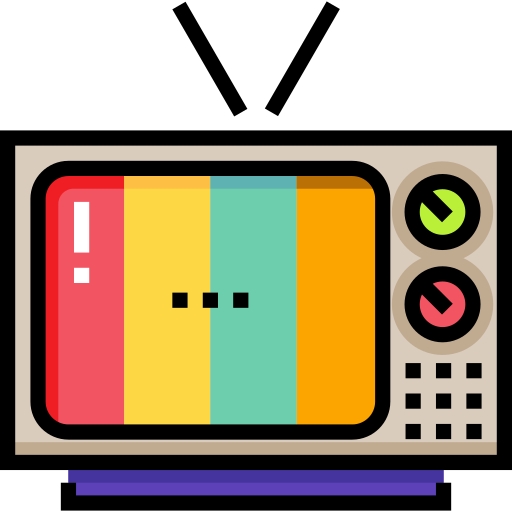
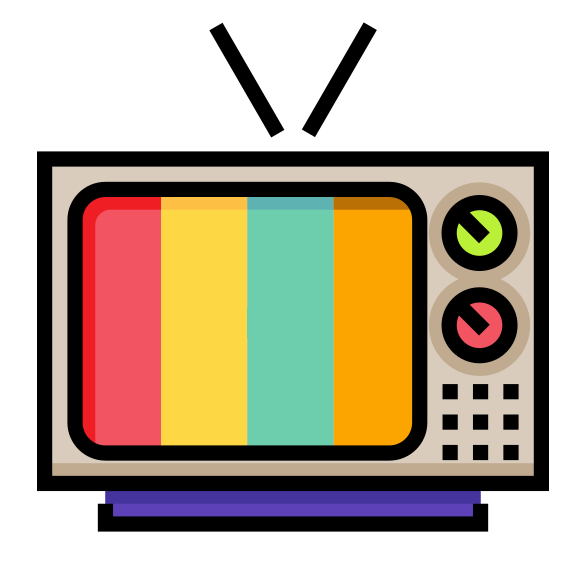
Update UI components and loading spinner visuals
Added new image assets and updated references for logos. Improved SpinnerLoadingVideo with a bouncing ball effect and new image. Enhanced AccordionGroupButtons and sidebar button styles for better alignment. HeaderBlock logo is now a link. ImageLargeLogo links to a random category. NowPlaying page sets background color on video load/unload. Updated CSS for new spinner and sidebar visuals.

diff --git a/src/style.css b/src/style.css
@@ -218,15 +218,23 @@ body {
 }
 
 .sidebar-accordion-button {
-    padding: 8px 12px !important;
+    display: flex !important;
+    align-items: center;
+    justify-content: center;
+    position: relative;
+    padding: 7px 12px !important;
+    padding-right: 3rem !important; /* Reserve space for chevron */
     font-size: 0.875rem;
     background-color: transparent;
-    border: 1px solid #212529 !important; /* Black border to match btn-outline-dark */
-    color: #212529 !important; /* Always black text */
+    border: 1px solid #212529 !important; 
+    color: #212529 !important;
     font-weight: normal;
-    display: block !important; /* Use block instead of flex */
-    text-align: center !important; /* Center the text */
-    position: relative; /* For absolute positioning of chevron */
+    box-sizing: border-box;
+    text-align: center !important;
+}
+.accordion-title {
+    flex: 1;
+    text-align: center;
 }
 
 /* Position the chevron arrow */
@@ -282,7 +290,7 @@ body {
     left: 0;
     right: 0;
     bottom: 0;
-    background-color: #000;
+    background-color: #FFF;
     display: flex;
     align-items: center;
     justify-content: center;
@@ -293,14 +301,50 @@ body {
 }
 
 /* SpinnerLoadingVideo */
-#vidspin {
-    background-color: white;
-    border-radius: 24px;
-    padding: 10px;
-    width: 90%;
-    height: 80vh;
+@keyframes float {
+    0% {
+        box-shadow: 0 5px 15px 0px rgba(0,0,0,0.6);
+        transform: translatey(0px);
+    }
+    50% {
+        box-shadow: 0 25px 15px 0px rgba(0,0,0,0.2);
+        transform: translatey(-20px);
+    }
+    100% {
+        box-shadow: 0 5px 15px 0px rgba(0,0,0,0.6);
+        transform: translatey(0px);
+    }
 }
 
+.container {
+    width: 100%;
+    height: 100%;
+    display: flex;
+    flex-direction: column;
+    justify-content: center;
+    align-items: center;
+}
+
+.floatingball {
+    width: 500px;
+    height: 500px;
+    box-sizing: border-box;
+    border: 5px black solid;
+    border-radius: 50%;
+    overflow: hidden;
+    box-shadow: 0 5px 15px 0px rgba(0,0,0,0.6);
+    transform: translatey(0px);
+    animation: float 2s ease-in-out infinite;
+}
+
+.floatingball img {
+  width: 80%;
+  height: auto;
+  display: block;
+  margin: 0 auto;
+}
+
+/* iframe embedded videos are loaded into */
 #vidviewer {
     height: 100%;
     width: 95%;

diff --git a/src/pages/NowPlaying/index.jsx b/src/pages/NowPlaying/index.jsx
@@ -23,6 +23,14 @@ export function NowPlaying() {
     };
   }, []);
 
+  useEffect(() => {
+    return () => {
+      /** @type {HTMLElement|null} */
+      const wrapper = document.querySelector('.vidViewWrapper');
+      if (wrapper) wrapper.style.backgroundColor = '#FFF';
+    };
+  }, []);
+
   // if user returns to the route and there's no currentVid data
   if (!currentVid) {
     return (
@@ -41,17 +49,15 @@ export function NowPlaying() {
     else { document.title = "Free TV"; }
   }, [title]);
 
-  // // Responsive playlist height based on screen size
-  // const getPlaylistHeight = () => {
-  //   if (typeof window === 'undefined') return 300;
-  //   const width = window.innerWidth;
-  //   if (width < 576) return 600; // Extra small screens - larger playlist
-  //   if (width < 992) return 450; // Small to medium screens
-  //   return 350; // Large screens
-  // };
+  function handleVideoLoad() {
+    showVidNavBtnsSignal.value = true;
+    if (title) log(`Video ${title} loaded`);
+    // Change background color of vidViewWrapper to black
+    /** @type {HTMLElement|null} */
+    const wrapper = document.querySelector('.vidViewWrapper');
+    if (wrapper) wrapper.style.backgroundColor = '#000';
+  }
 
-  // const playlistHeight = getPlaylistHeight();
-  
   const archiveUrl = embedPlaylist
     ? `https://archive.org/embed/${identifier}?playlist=1`
     : `https://archive.org/embed/${identifier}`;
@@ -61,10 +67,7 @@ export function NowPlaying() {
         <VideoLoader
           src={archiveUrl}
           title={title}
-          onLoad={() => {
-            showVidNavBtnsSignal.value = true;
-            if (title) log(`Video ${title} loaded`);
-          }}
+          onLoad={handleVideoLoad}
           iframeProps={{ id: 'vidviewer' }}
         />
     </div>

diff --git a/src/components/Loaders/SpinnerLoadingVideo.jsx b/src/components/Loaders/SpinnerLoadingVideo.jsx
@@ -1,20 +1,17 @@
 
 export function SpinnerLoadingVideo({ title }) {
   return (
-    <>
-      <div id="vidspin" className="text-center">
-        <h2 className="text-dark mt-5 mb-4 display-5">Loading...</h2>
-        <h3 className="text-success fw-bold mb-2">{title}</h3>
-        <h4 className="mb-2 fw-bold text-danger">Please be patient!</h4>
-        <p className="text-dark mb-3">Large archives take awhile to load.</p>
-        <div
-          className="spinner-border text-dark"
-          role="status"
-          style={{ width: '8rem', height: '8rem' }}
-        >
-          <span className="visually-hidden">Loading Video</span>
-        </div>
+    // bouncing ball effect with shadow for spinner
+    <div className="container">
+      <div className="floatingball">
+          <div id="vidspin" className="text-center">
+              <h2 className="mt-5 mb-3 fw-bold">Loading:</h2>
+              <h4 className="text-success fw-bold mb-2">{title}</h4>
+              <h5 className="mb-2 fst-italic text-danger">Please be patient</h5>
+              <p className="text-secondary opacity-75 mb-2">(Large archives take awhile to load)</p>
+              <img src="/public/assets/watchingtv.jpg" />
+          </div>
       </div>
-    </>
+    </div>
   );
 }

diff --git a/src/components/UI/ImageLargeLogo.jsx b/src/components/UI/ImageLargeLogo.jsx
@@ -1,15 +1,27 @@
-import { Link } from '@components/Navigation/Link';
 import freetvLogo from '/assets/freetv.png';
-
+import { useCategories } from '@/hooks/useCategories';
+import { getRandomCategory } from '@/utils';
 
 export function ImageLargeLogo() {
+  
+  // get the list of categories and select a random one
+  const categories = useCategories();
+  const randomCategory = getRandomCategory(categories);
+  
   return (
     <div className="text-center mt-4">
 		<h1 className="display-4 bruno-ace noselect">Free TV</h1>
 		<p className="pb-4">
-			<Link href="/" className="m-0 p-0">
-				<img src={freetvLogo} width="175" title="Watch Free TV!" alt="Free TV logo" />
-			</Link>
+			<a
+              href={randomCategory ? `/category/${randomCategory}` : '#'}
+              className="small fw-bold link-dark link-offset-3 link-underline link-underline-opacity-50"
+              title="Click to visit a random category"
+              onClick={e => {
+                if (!randomCategory) e.preventDefault();
+              }}
+            >
+				<img src={freetvLogo} width="175" alt="Free TV logo" />
+			</a>
 		</p>
 	</div>
   );

diff --git a/src/components/UI/HeaderBlock.jsx b/src/components/UI/HeaderBlock.jsx
@@ -1,4 +1,5 @@
 import { capitalizeFirstLetter } from '@/utils';
+import { Link } from '@components/Navigation/Link';
 
 /**
  * HeaderBlock component for page headers with responsive image and heading.
@@ -19,13 +20,15 @@ export function HeaderBlock({ img, heading, desc, alt }) {
           <div><h1 className="pt-1 mb-0">{capitalizeFirstLetter(heading)}</h1></div>
       </div>
       <p className="mt-3 mx-auto">{desc}</p>
-      <img
-        id="largeLogo"
-        src={img}
-        width="100"
-        className="mb-3 mt-2 d-none d-lg-block mx-auto"
-        alt={alt}
-      />
+      <Link href="/" className="m-0">
+        <img
+          id="largeLogo"
+          src={img}
+          width="100"
+          className="mb-3 mt-2 d-none d-lg-block mx-auto"
+          alt={alt}
+        />
+      </Link>
     </>
   );
 }

diff --git a/src/components/UI/AccordionGroupButtons.jsx b/src/components/UI/AccordionGroupButtons.jsx
@@ -36,7 +36,7 @@ export function AccordionGroupButtons({ groupName, shows, accordionId }) {
             aria-expanded="false" 
             aria-controls={collapseId}
           >
-            {groupName}
+            <span className="accordion-title">{groupName}</span>
           </button>
         </h2>
         <div 

diff --git a/src/pages/Home/index.jsx b/src/pages/Home/index.jsx
@@ -4,7 +4,6 @@ import { useDebugLog } from '@/hooks/useDebugLog';
 import { AdBar } from '@/components/UI/AdBar';
 import { StarterHint } from '@components/UI/StarterHint';
 
-
 export function Home() {
 
 	const log = useDebugLog();

diff --git a/src/components/UI/ImageSmallLogo.jsx b/src/components/UI/ImageSmallLogo.jsx
@@ -1,5 +1,5 @@
 import { Link } from '@components/Navigation/Link';
-import freetvLogo from '/assets/freetv.png';
+import freetvLogo from '/assets/freetv-small.png';
 
 export function ImageSmallLogo() {
   return (
